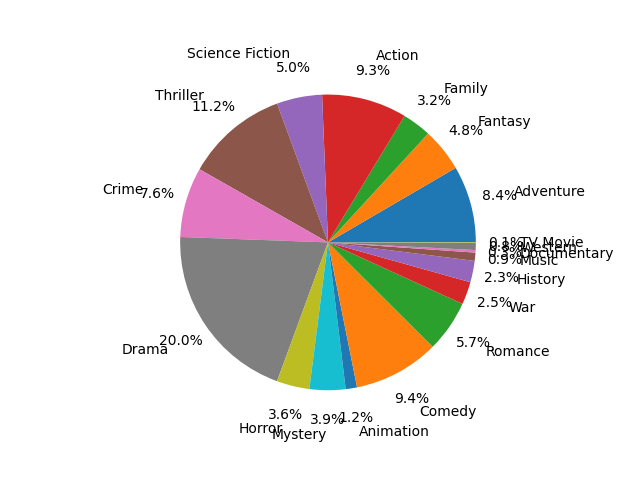
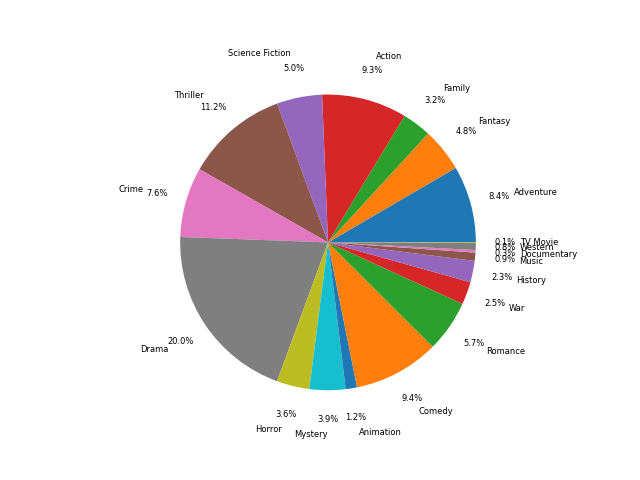
Reduce font size

diff --git a/assignment_1/z5298989.py b/assignment_1/z5298989.py
@@ -371,7 +371,9 @@ def question_11(df10):
             else:
                 genre_dict.update({genre: 1})
 
-    # TODO nice to have: sorted
+    # Reduce overlapping
+    plt.rcParams.update({'font.size': 6})
+
     # https://matplotlib.org/3.1.1/api/_as_gen/matplotlib.pyplot.pie.html
     # https://pyformat.info/
     plt.pie(genre_dict.values(), labels=genre_dict.keys(), autopct='%1.1f%%', pctdistance=1.2, labeldistance=1.3)
@@ -412,6 +414,7 @@ def question_12(df10):
 
     # https://matplotlib.org/3.1.1/api/_as_gen/matplotlib.pyplot.bar.html
     plt.clf()
+    plt.rcParams.update({'font.size': 10})
     plt.figure(figsize=(15, 10))
     plt.xticks(rotation=90)
     plt.bar(sorted(country_dict.keys()), sorted_values)
@@ -436,15 +439,19 @@ def question_13(df10):
     # - (0.5 Marks) Add a legend showing the name of languages and their associated colors.
     df11 = df10
 
+    # Switching to original_language to avoid font display issues
+    # Allowed from Mohammadali Yaghoubzadehfard
+    # Mon Mar 09 2020 14:36:11 GMT+1100 (Ostaustralische Sommerzeit)
+
     # Extract the languages given in the json
-    df11["language_list"] = df11["spoken_languages"].apply(lambda col_val: extract_field_from_json(col_val, "name"))
+    #df11["language_list"] = df11["spoken_languages"].apply(lambda col_val: extract_field_from_json(col_val, "name"))
     # Method: choose first
-    df11["language_selected"] = df11["language_list"].apply(lambda col_list: col_list[0])
+    #df11["language_selected"] = df11["language_list"].apply(lambda col_list: col_list[0])
 
     # Group by language for color map
-    groups = df11[["language_selected", "vote_average", "success_impact"]].groupby("language_selected").median()
+    groups = df11[["original_language", "vote_average", "success_impact"]].groupby("original_language").median()
     # Manual Color Map
-    color_map = ["#000000", "#ff0000", "#ff8000", "#ffff00", "#80ff00", "#00ff00", "#00ff80", "#00ffff", "#0080ff", "#0000ff", "#7f00ff", "#ff00ff", "#ff007f", "#808080", "#ff6666", "#ffb266", "#ffff66", "#b2ff66", "#66ff66", "#66ffb2", "#66ffff", "#66b2ff", "#6666ff", "#b266ff", "#ff66ff", "#ff66d2", "#c0c0c0", "#ffcccc", "#ffffcc", "#ccffcc", "#ccffff", "#ccccff", "#ffccff"]
+    color_map = [ "#ff0000", "#ff8000", "#ffff00", "#80ff00", "#00ff00", "#00ff80", "#00ffff", "#0080ff", "#0000ff", "#7f00ff", "#ff00ff", "#ff007f", "#808080", "#ff6666", "#ffb266", "#ffff66", "#b2ff66", "#66ff66", "#66ffb2", "#66ffff", "#66b2ff", "#6666ff", "#b266ff", "#ff66ff", "#ff66d2", "#c0c0c0", "#ffcccc", "#ffffcc", "#ccffcc", "#ccffff", "#ccccff", "#ffccff"]
     # Map language to an index of the color map
     language_to_color_map = {}
     map_counter = 0
@@ -460,13 +467,13 @@ def question_13(df10):
     plt.clf()
     plt.figure(figsize=(20, 25))
     # https://matplotlib.org/3.1.0/tutorials/text/text_props.html#text-with-non-latin-glyphs
-    # plt.rcParams['font.sans-serif'] = ['Source Han Sans TW', 'sans-serif']
+    # plt.rcParams['font.family'] = 'Open Sans'
 
     # https://matplotlib.org/3.1.1/gallery/lines_bars_and_markers/scatter_with_legend.html
     fig, ax = plt.subplots()
     for index, row in df11.iterrows():
         x, y, = row["vote_average"], row["success_impact"]
-        label, color = row["language_selected"], color_map[language_to_color_map[row["language_selected"]]]
+        label, color = row["original_language"], color_map[language_to_color_map[row["original_language"]]]
 
         ax.scatter(x, y, c=color, s=4.0, label=label, edgecolors='face')
 
@@ -497,7 +504,7 @@ def question_13(df10):
     # https://stackoverflow.com/questions/10101700/moving-matplotlib-legend-outside-of-the-axis-makes-it-cutoff-by-the-figure-box
     fig.subplots_adjust(bottom=0.5)
 
-    #plt.show()
+    # plt.show()
 
     plt.savefig("{}-Q13.png".format(studentid))
 
